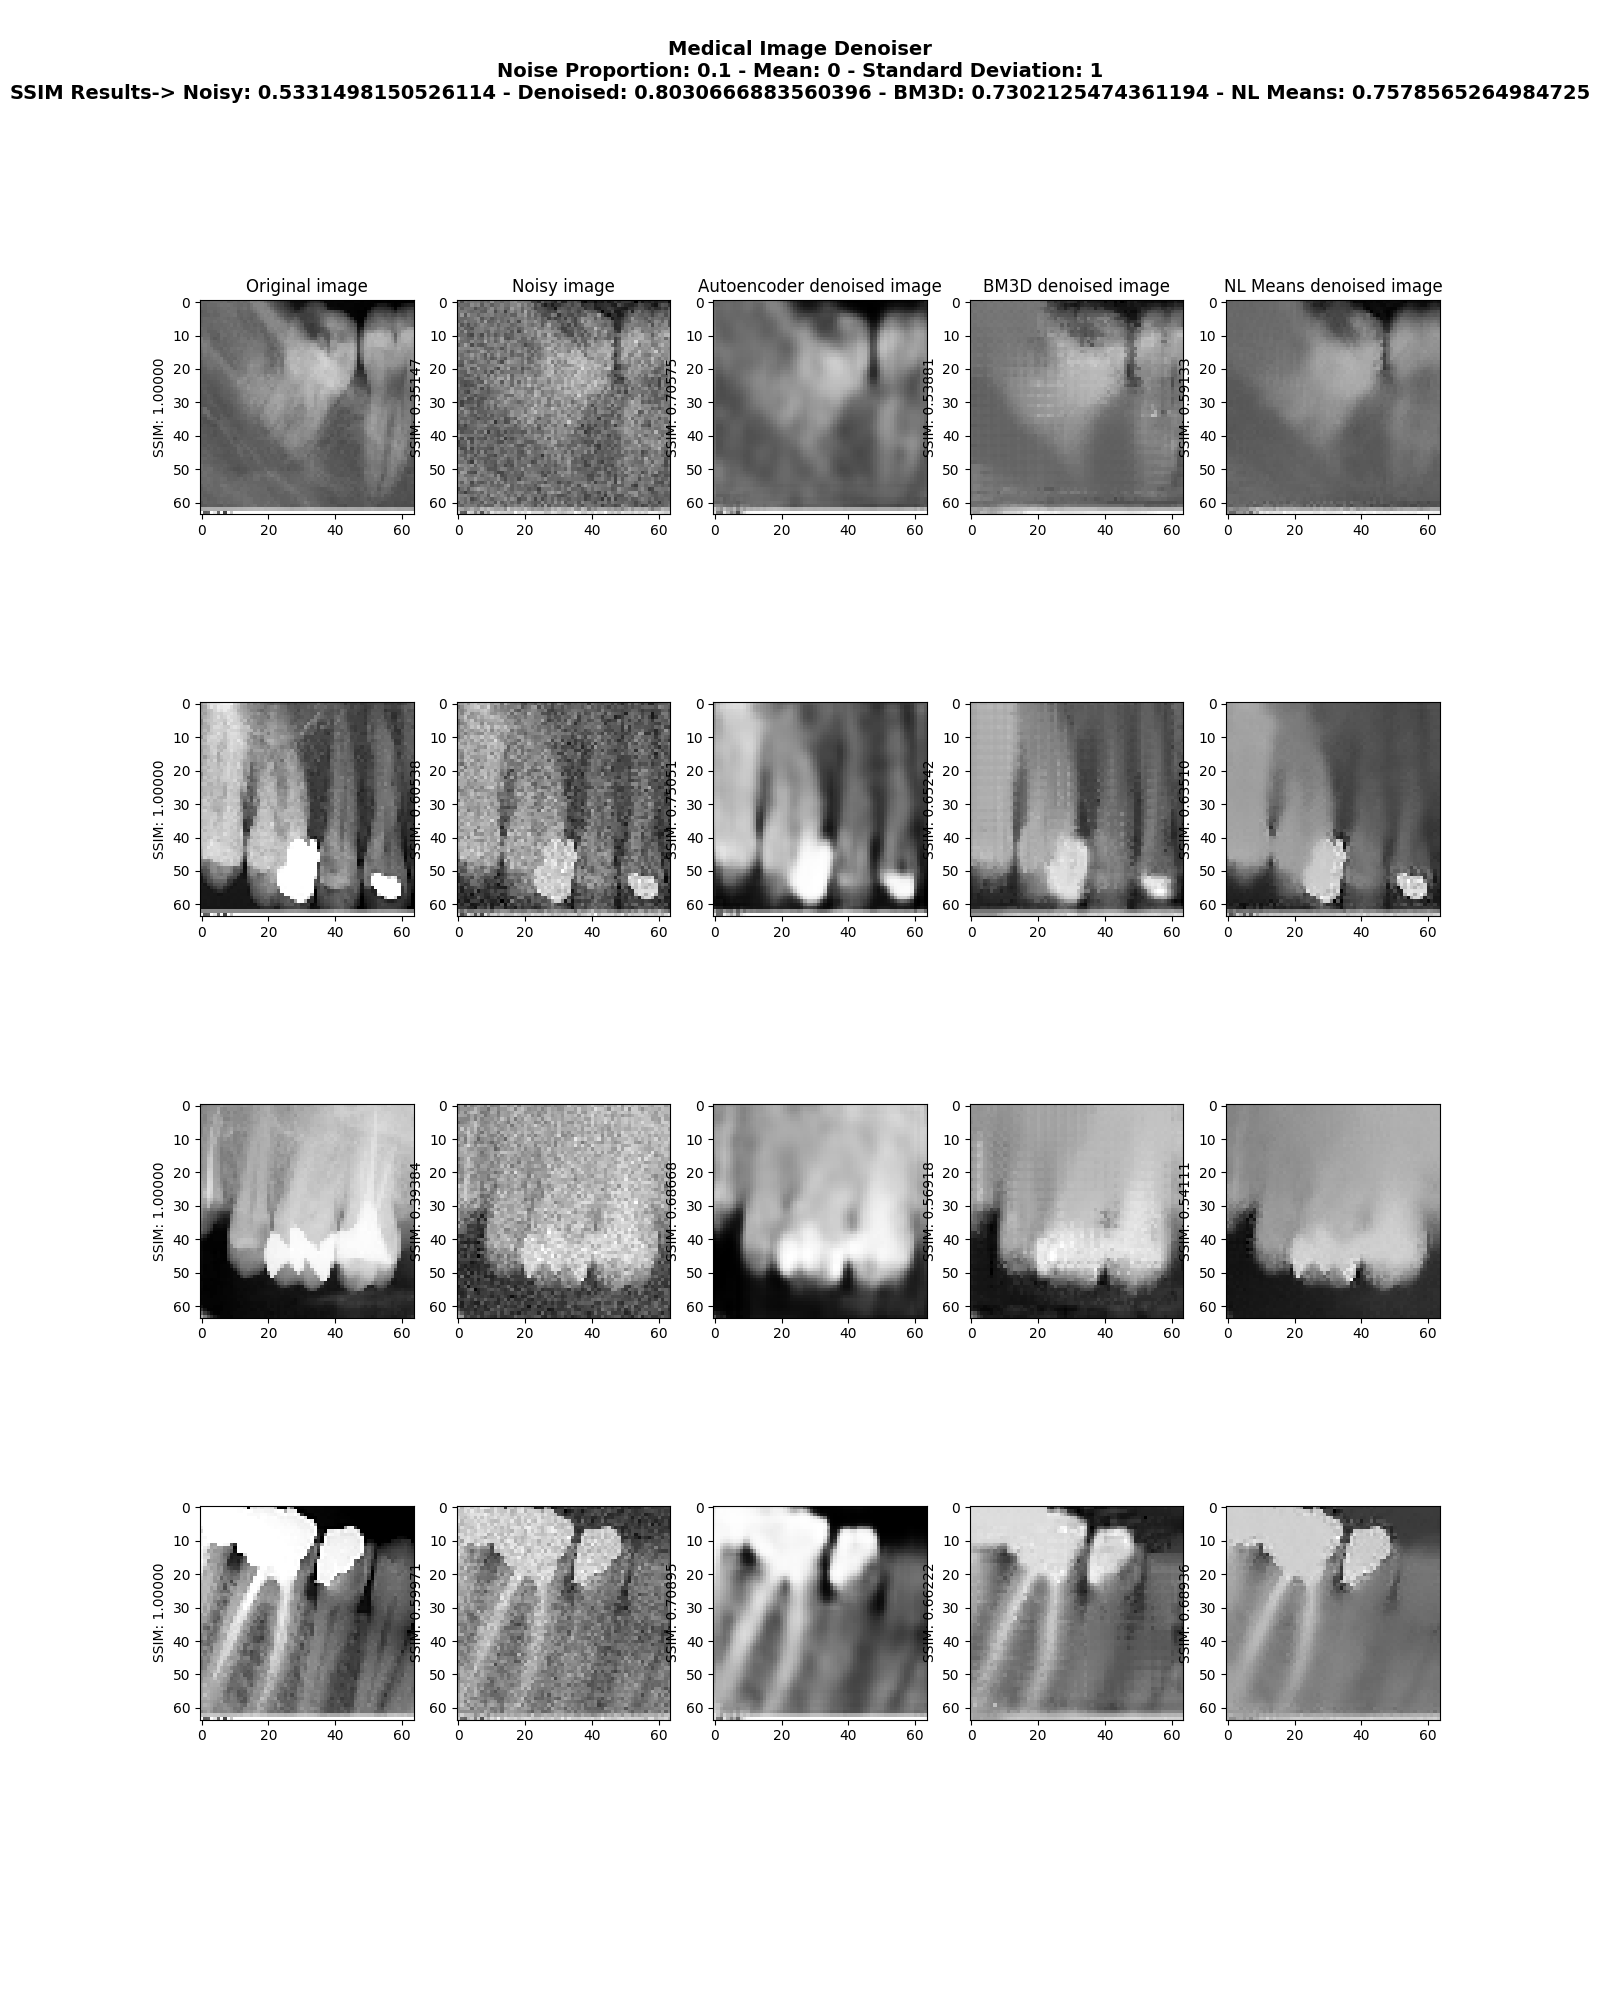
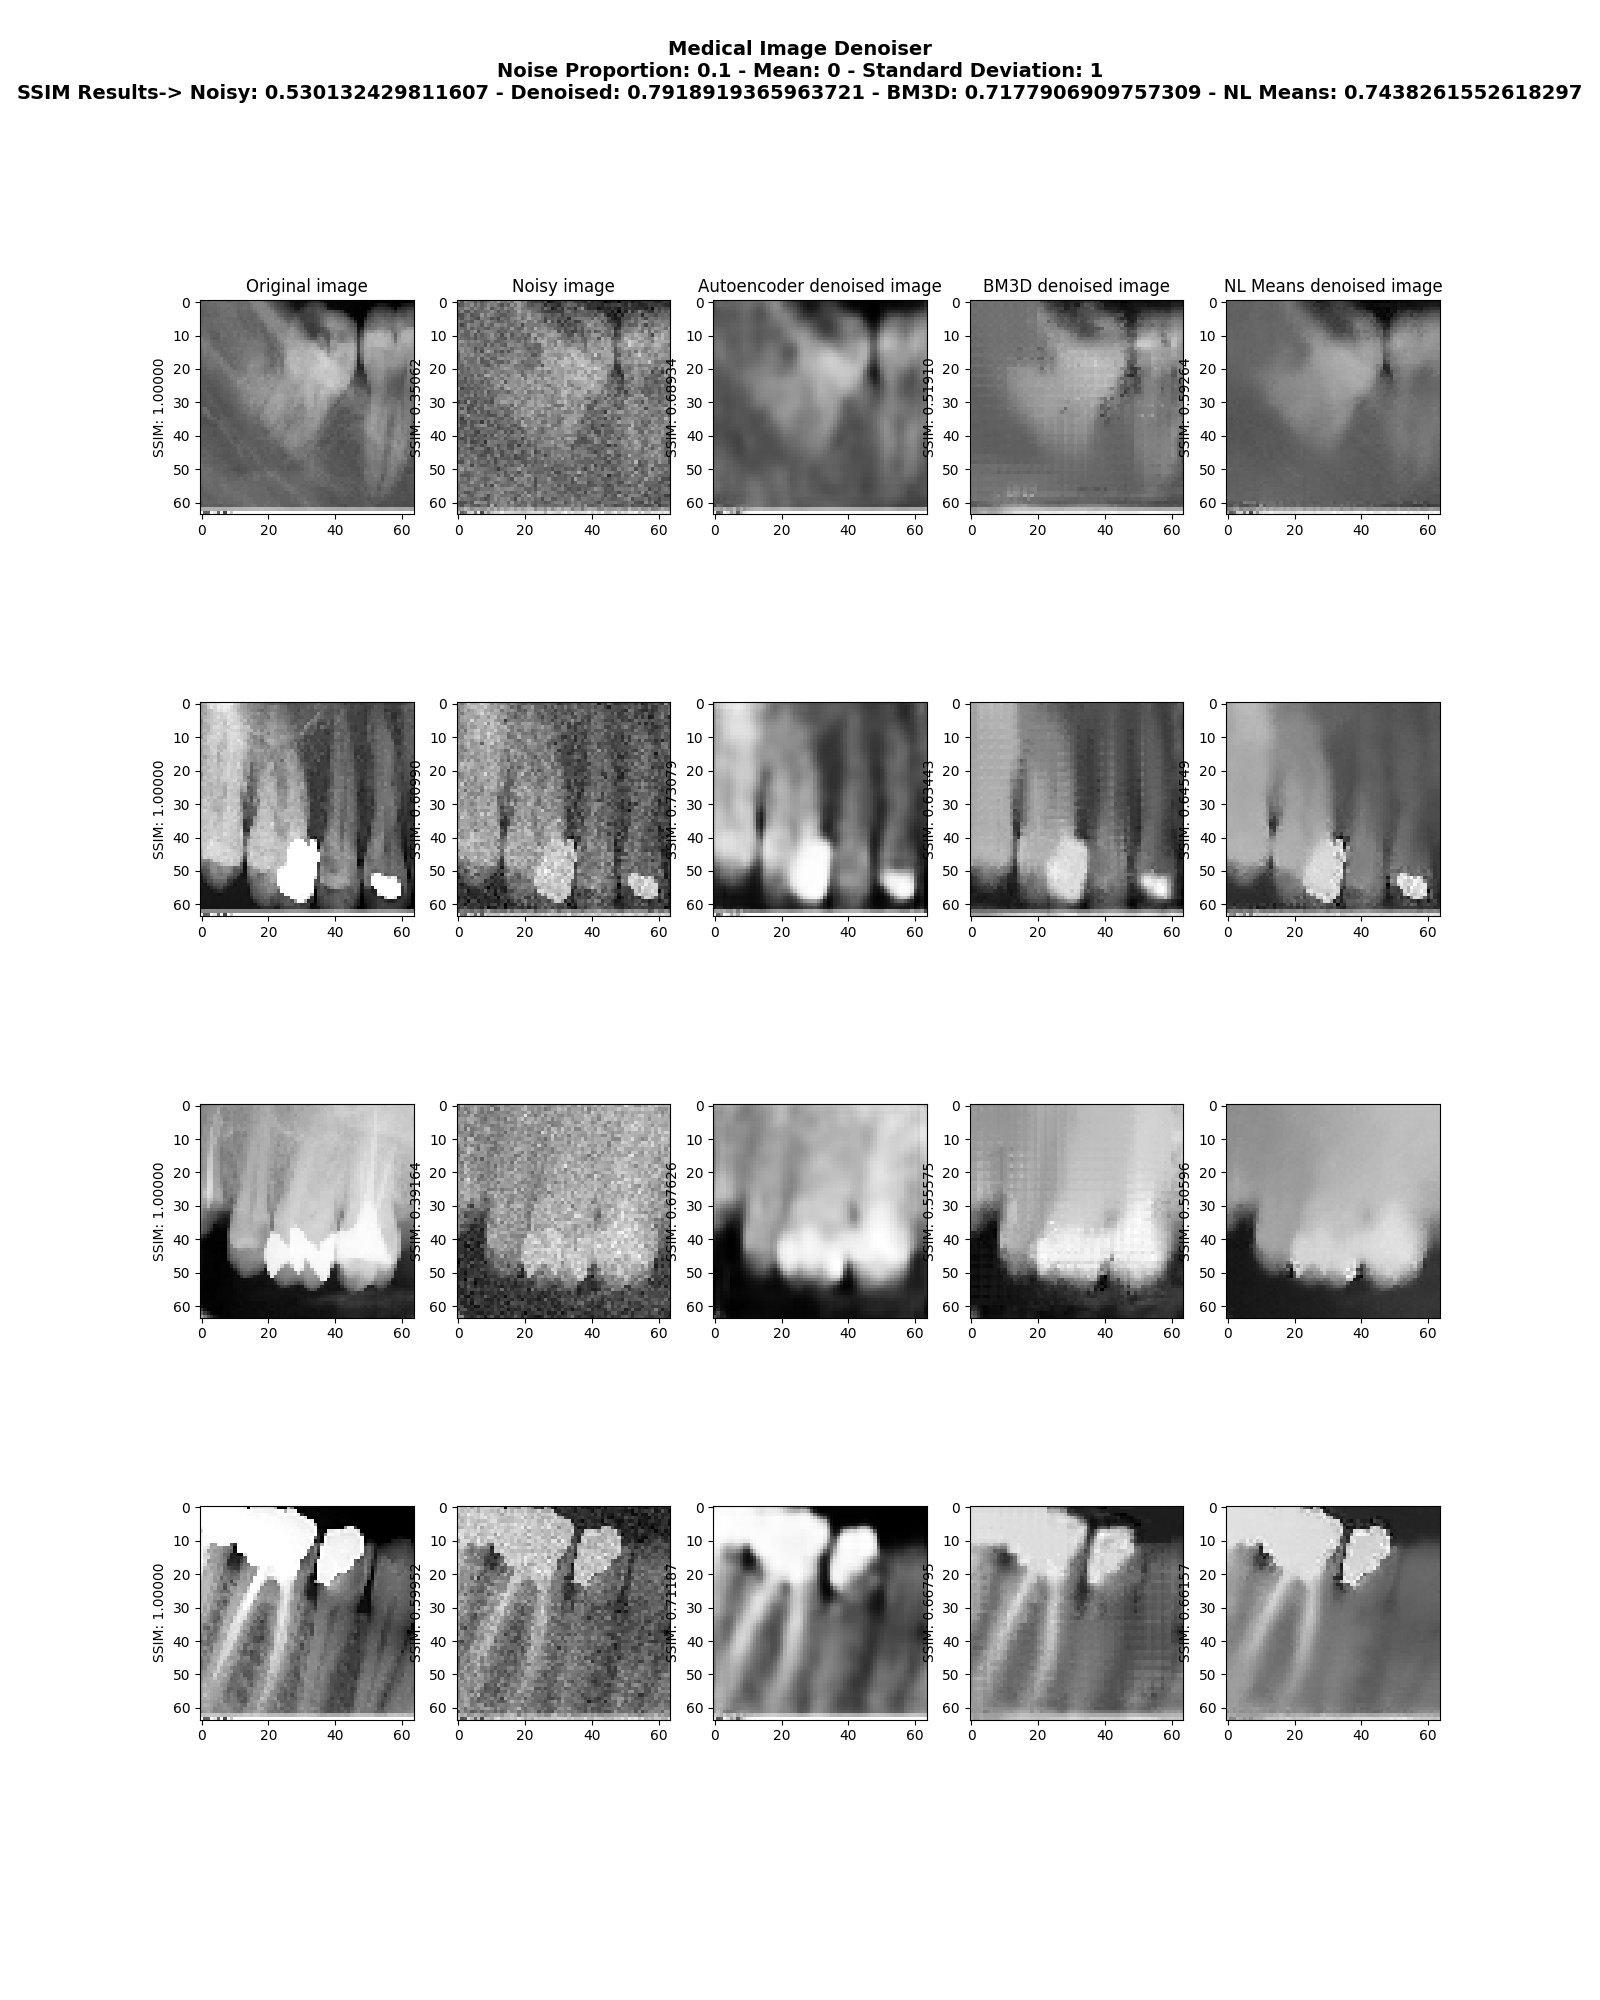
res

diff --git a/2021/src/Pre-processing/Isotropic/Noise/src/denoising/CNN_denoiser.py b/2021/src/Pre-processing/Isotropic/Noise/src/denoising/CNN_denoiser.py
@@ -11,16 +11,20 @@ class CNN_denoiser():
         self.nu_epochs = nu_epochs
         self.validation_split = validation_split
         if img_width == 128 and img_height == 128:
-            self.model = autoencoder.get_autoencoder_model128(img_width=img_width, img_height=img_height)
+            self.model = autoencoder.get_autoencoder_model128(
+                img_width=img_width, img_height=img_height)
         else:
-            self.model = autoencoder.get_autoencoder_model(img_width=img_width, img_height=img_height)
+            self.model = autoencoder.get_autoencoder_model(
+                img_width=img_width, img_height=img_height)
 
     def model_plots(self, noise_prop, noise_mean, noise_std):
         # summarize history for loss
         plt.figure()
-        plt.plot(np.arange(0, self.nu_epochs), self.model.history.history["loss"], label="train_loss")
+        plt.plot(np.arange(0, self.nu_epochs),
+                 self.model.history.history["loss"], label="train_loss")
         if self.validation_split != 0:
-            plt.plot(np.arange(0, self.nu_epochs), self.model.history.history["val_loss"], label="val_loss")
+            plt.plot(np.arange(0, self.nu_epochs),
+                     self.model.history.history["val_loss"], label="val_loss")
         plt.title(
             "Model Loss on Dataset\nNoise Proportion: {0} - Mean: {1} - Standard Deviation: {2}".format(noise_prop,
                                                                                                         noise_mean,
@@ -33,18 +37,24 @@ class CNN_denoiser():
     @staticmethod  # Split 2 datasets
     def train_test_split(set1, set2, train_split=0.9, shuffle_test_set=False, img_height=64, img_width=64):
         images_set = set1[:int(set1.shape[0] * train_split)]
-        images_set = np.append(images_set, set2[:int(set2.shape[0] * train_split)], axis=0)
-        images_set = np.append(images_set, set2[int(set2.shape[0] * train_split):], axis=0)
-        images_set = np.append(images_set, set1[int(set1.shape[0] * train_split):], axis=0)
+        images_set = np.append(
+            images_set, set2[:int(set2.shape[0] * train_split)], axis=0)
+        images_set = np.append(
+            images_set, set2[int(set2.shape[0] * train_split):], axis=0)
+        images_set = np.append(
+            images_set, set1[int(set1.shape[0] * train_split):], axis=0)
 
-        train_size = int(set1.shape[0] * train_split + set2.shape[0] * train_split)
+        train_size = int(set1.shape[0] * train_split +
+                         set2.shape[0] * train_split)
         input_train = images_set[0:train_size]
         input_test = images_set[train_size:]
         np.random.shuffle(input_train)  # Shuffle input train set
         if shuffle_test_set:
             np.random.shuffle(input_test)
-        input_train = input_train.reshape(input_train.shape[0], img_width, img_height, 1)
-        input_test = input_test.reshape(input_test.shape[0], img_width, img_height, 1)
+        input_train = input_train.reshape(
+            input_train.shape[0], img_width, img_height, 1)
+        input_test = input_test.reshape(
+            input_test.shape[0], img_width, img_height, 1)
         return input_train, input_test
 
     @staticmethod  # Split 1 dataset
@@ -55,39 +65,56 @@ class CNN_denoiser():
 
         if shuffle_test_set:
             np.random.shuffle(input_test)
-        input_train = input_train.reshape(input_train.shape[0], img_width, img_height, 1)
-        input_test = input_test.reshape(input_test.shape[0], img_width, img_height, 1)
+        input_train = input_train.reshape(
+            input_train.shape[0], img_width, img_height, 1)
+        input_test = input_test.reshape(
+            input_test.shape[0], img_width, img_height, 1)
         return input_train, input_test
 
     @staticmethod  # Split 3 datasets
     def train_test_split3(set1, set2, set3, train_split=0.9, shuffle_test_set=False, img_height=64, img_width=64):
         images_set = set1[:int(set1.shape[0] * train_split)]
-        images_set = np.append(images_set, set2[:int(set2.shape[0] * train_split)], axis=0)
-        images_set = np.append(images_set, set3[:int(set3.shape[0] * train_split)], axis=0)
-        images_set = np.append(images_set, set3[int(set3.shape[0] * train_split):], axis=0)
-        images_set = np.append(images_set, set2[int(set2.shape[0] * train_split):], axis=0)
-        images_set = np.append(images_set, set1[int(set1.shape[0] * train_split):], axis=0)
+        images_set = np.append(
+            images_set, set2[:int(set2.shape[0] * train_split)], axis=0)
+        images_set = np.append(
+            images_set, set3[:int(set3.shape[0] * train_split)], axis=0)
+        images_set = np.append(
+            images_set, set3[int(set3.shape[0] * train_split):], axis=0)
+        images_set = np.append(
+            images_set, set2[int(set2.shape[0] * train_split):], axis=0)
+        images_set = np.append(
+            images_set, set1[int(set1.shape[0] * train_split):], axis=0)
 
-        train_size = int(set1.shape[0] * train_split + set2.shape[0] * train_split + set3.shape[0] * train_split)
+        train_size = int(set1.shape[0] * train_split + set2.shape[0]
+                         * train_split + set3.shape[0] * train_split)
         input_train = images_set[0:train_size]
         input_test = images_set[train_size:]
         np.random.shuffle(input_train)
         if shuffle_test_set:
             np.random.shuffle(input_test)
-        input_train = input_train.reshape(input_train.shape[0], img_width, img_height, 1)
-        input_test = input_test.reshape(input_test.shape[0], img_width, img_height, 1)
+        input_train = input_train.reshape(
+            input_train.shape[0], img_width, img_height, 1)
+        input_test = input_test.reshape(
+            input_test.shape[0], img_width, img_height, 1)
         return input_train, input_test
 
     @staticmethod  # Split 4 datasets
     def train_test_split4(set1, set2, set3, set4, train_split=0.9, shuffle_test_set=False, img_height=64, img_width=64):
         images_set = set1[:int(set1.shape[0] * train_split)]
-        images_set = np.append(images_set, set2[:int(set2.shape[0] * train_split)], axis=0)
-        images_set = np.append(images_set, set3[:int(set3.shape[0] * train_split)], axis=0)
-        images_set = np.append(images_set, set4[:int(set4.shape[0] * train_split)], axis=0)
-        images_set = np.append(images_set, set4[int(set4.shape[0] * train_split):], axis=0)
-        images_set = np.append(images_set, set3[int(set3.shape[0] * train_split):], axis=0)
-        images_set = np.append(images_set, set2[int(set2.shape[0] * train_split):], axis=0)
-        images_set = np.append(images_set, set1[int(set1.shape[0] * train_split):], axis=0)
+        images_set = np.append(
+            images_set, set2[:int(set2.shape[0] * train_split)], axis=0)
+        images_set = np.append(
+            images_set, set3[:int(set3.shape[0] * train_split)], axis=0)
+        images_set = np.append(
+            images_set, set4[:int(set4.shape[0] * train_split)], axis=0)
+        images_set = np.append(
+            images_set, set4[int(set4.shape[0] * train_split):], axis=0)
+        images_set = np.append(
+            images_set, set3[int(set3.shape[0] * train_split):], axis=0)
+        images_set = np.append(
+            images_set, set2[int(set2.shape[0] * train_split):], axis=0)
+        images_set = np.append(
+            images_set, set1[int(set1.shape[0] * train_split):], axis=0)
 
         train_size = int(set1.shape[0] * train_split + set2.shape[0] * train_split + set3.shape[0] * train_split
                          + set4.shape[0] * train_split)
@@ -96,8 +123,10 @@ class CNN_denoiser():
         np.random.shuffle(input_train)
         if shuffle_test_set:
             np.random.shuffle(input_test)
-        input_train = input_train.reshape(input_train.shape[0], img_width, img_height, 1)
-        input_test = input_test.reshape(input_test.shape[0], img_width, img_height, 1)
+        input_train = input_train.reshape(
+            input_train.shape[0], img_width, img_height, 1)
+        input_test = input_test.reshape(
+            input_test.shape[0], img_width, img_height, 1)
         return input_train, input_test
 
     def train(self, noisy_input, pure, save=False, verbosity=0):
@@ -109,7 +138,8 @@ class CNN_denoiser():
             self.model.save("trainedModel.h5")
 
     def evaluate(self, noisy_input_test, pure_test):
-        test_scores = self.model.evaluate(noisy_input_test, pure_test, verbose=2)
+        test_scores = self.model.evaluate(
+            noisy_input_test, pure_test, verbose=2)
         print("[EVALUATION] Test loss:", test_scores[0])
         print("[EVALUATION] Test accuracy:", test_scores[1])
         return test_scores

diff --git a/2021/src/Pre-processing/Isotropic/Noise/src/denoising/main.py b/2021/src/Pre-processing/Isotropic/Noise/src/denoising/main.py
@@ -2,6 +2,7 @@ import argparse
 
 import cv2
 import numpy as np
+import tensorflow as tf
 
 import dataset_reader
 import samples_plt
@@ -53,6 +54,8 @@ class Range(object):
 
 
 if __name__ == "__main__":
+    # gpus = tf.config.experimental.list_physical_devices('GPU')
+    # tf.config.experimental.set_memory_growth(gpus[0], True)
     img_width, img_height = 64, 64
     batch_size = 10
     nu_epochs = 50
@@ -60,7 +63,7 @@ if __name__ == "__main__":
     train_split = 0.9
     verbosity = 1
     noise_prop = 0.1
-    noise_std = 1
+    noise_std = 0.01
     noise_mean = 0
     number_of_samples = 4
     shuffle_test_set = False
@@ -71,7 +74,7 @@ if __name__ == "__main__":
                         type=int,
                         choices=[128, 64])
     parser.add_argument("-p", "--proportion", help="Gaussian noise proportion [default = 0.1]", type=float)
-    parser.add_argument("-std", "--sdeviation", help="Gaussian noise standard deviation [default = 1]", type=float)
+    parser.add_argument("-std", "--sdeviation", help="Gaussian noise standard deviation [default = 0.01]", type=float)
     parser.add_argument("-m", "--mean", help="Gaussian noise mean [default = 0]", type=float)
     parser.add_argument("-s", "--samples", help="Number of samples [default = 4]", type=int)
     parser.add_argument("-shuffle", "--shuffle", help="Shuffle test set", action="store_true")
